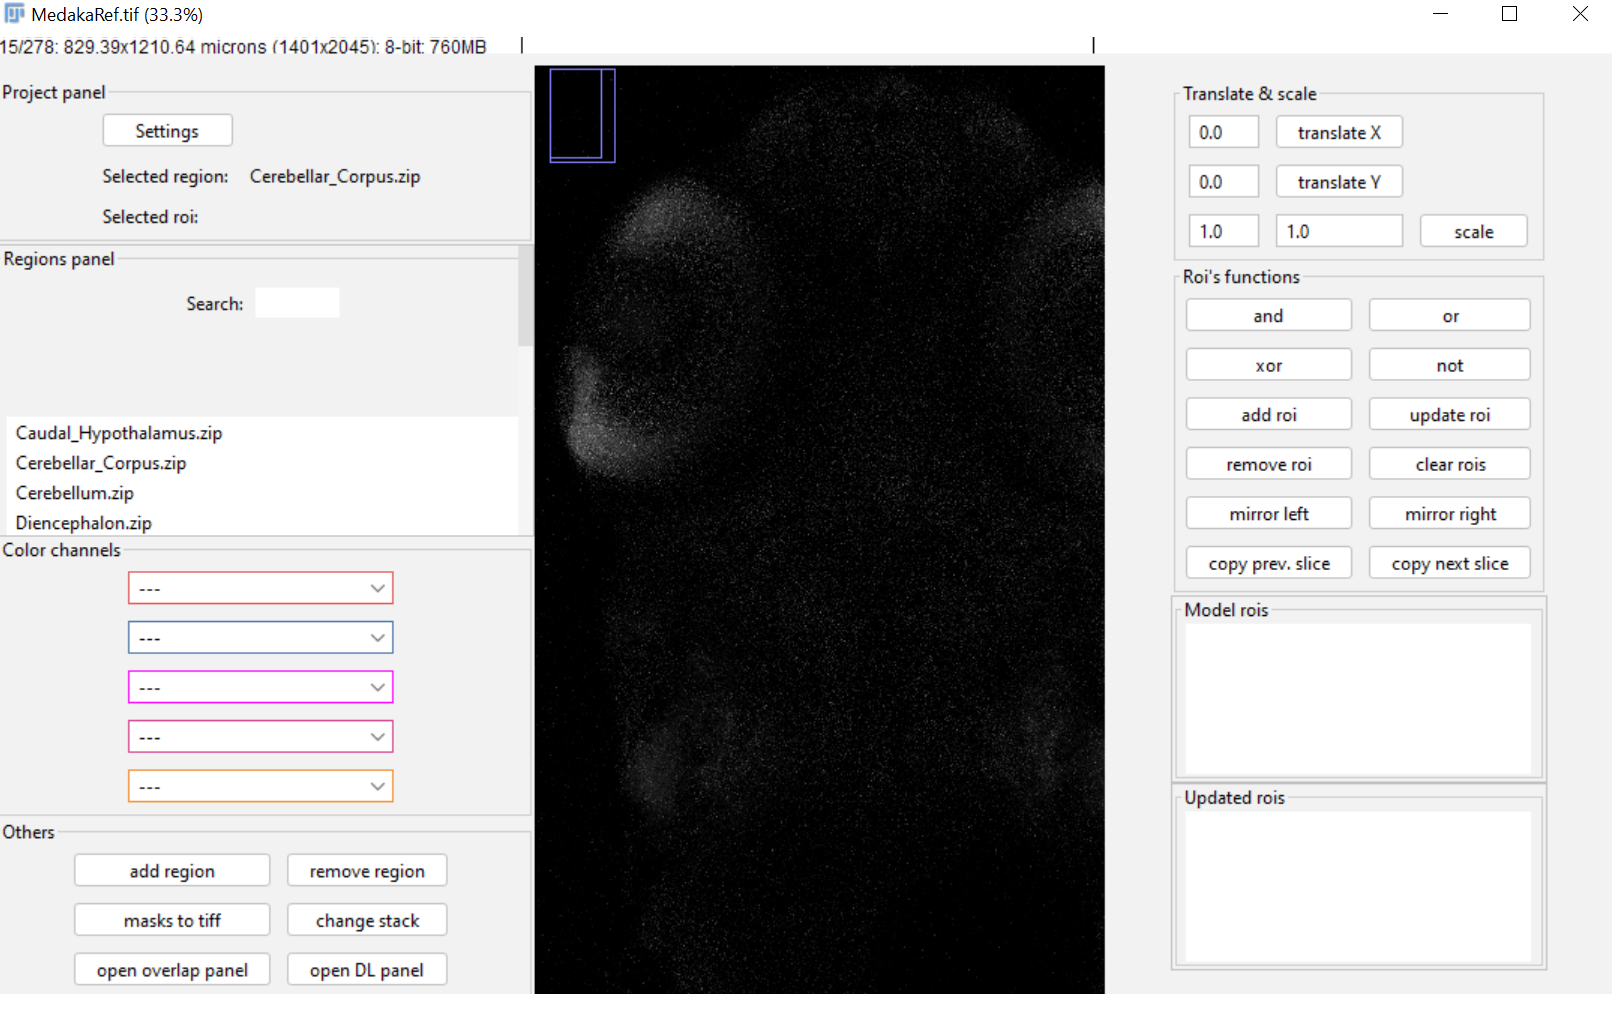
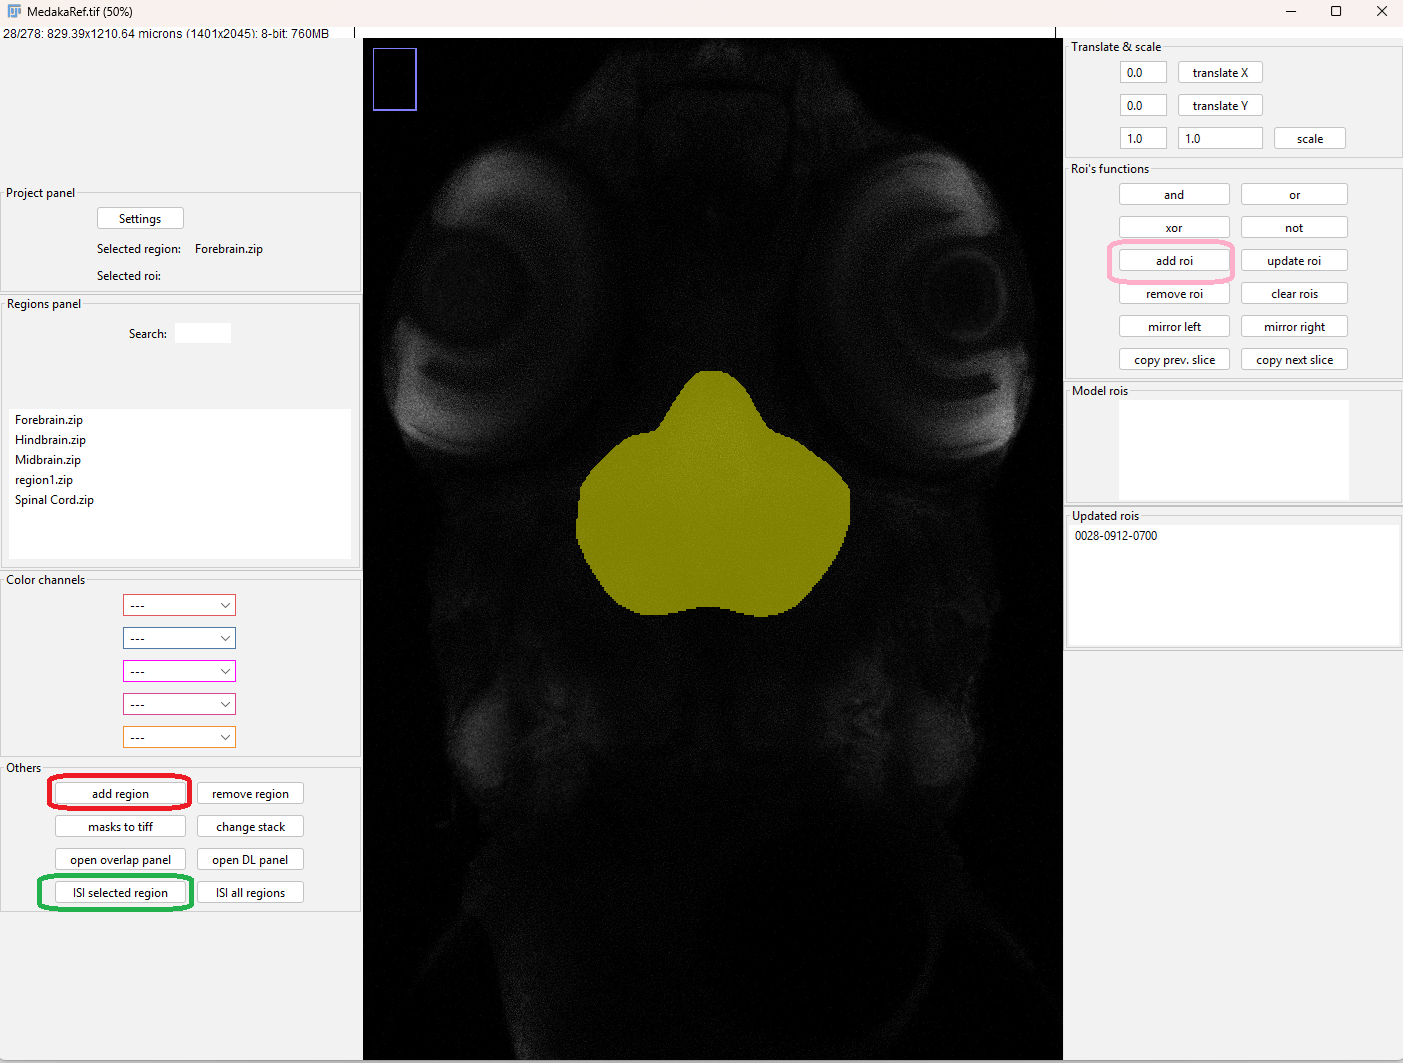
update projects, readme

Changed region(s): [[0.0, 0.0, 1.0, 1.0], [0.3984, 0.7366, 0.4291, 0.798], [0.9195, 0.1228, 0.9501, 0.1535]]

diff --git a/NeMO/README.md b/NeMO/README.md
@@ -57,7 +57,9 @@ To use the **Morphological Contour Interpolation** feature, users must first cre
 2. conda install pip
 3. pip install itkwasm-morphological-contour-interpolation
 
-Instructions for setting up and using the image registration and deep-learning–based segmentation modules will be provided in their respective tutorials.
+Please also update the path of **pythonfile** related to Morphological Contour Interpolation in the project JSON file.
+
+Instructions for setting up and using the **image registration** and **deep-learning–based segmentation** modules will be provided in their respective tutorials.
 
 ---
 Open the Fiji platform and the NeMO plugin will be enlisted in the Fiji “plugins” tab (encircled red in the image below). 
@@ -66,7 +68,13 @@ Open the Fiji platform and the NeMO plugin will be enlisted in the Fiji “plugi
 
 ---
 
-Click the “NeMO” button and select the project file from the unzipped test project. The project will be loaded and the NeMO window will appear on the screen as shown below.
+Click the “NeMO” button and select the project JSON file (e.g., **medakasegmentation.json**) (shown in the image below). 
+<img src="images/NeMO_SELECTJSON.png"/>
+
+The project will be loaded and the NeMO window will appear on the screen as shown below.
 
 <img src="images/NeMO4.png"/>
 
+If you want to add new region, please click "add (encircled red in the image below).
+
+<img src="images/NeMO4.png"/>
